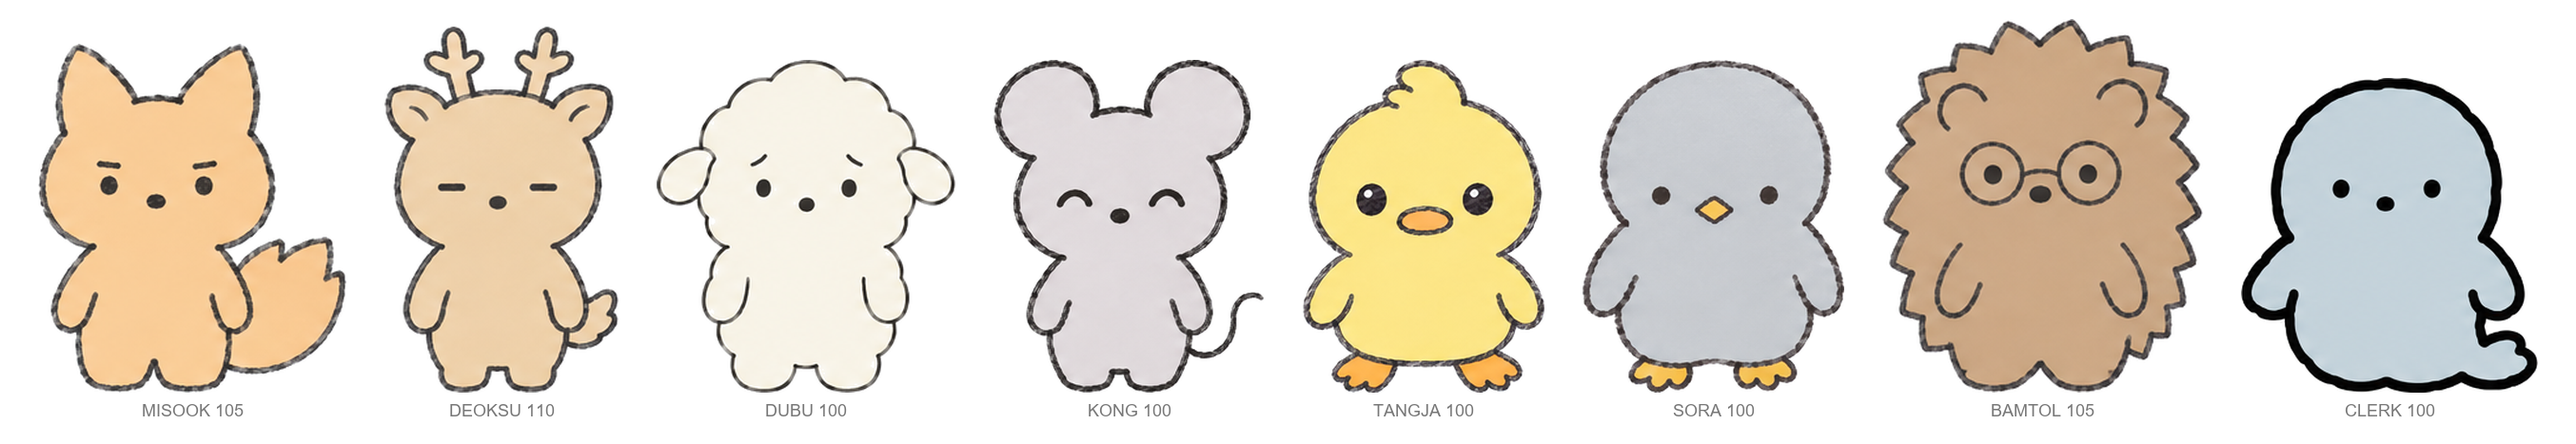
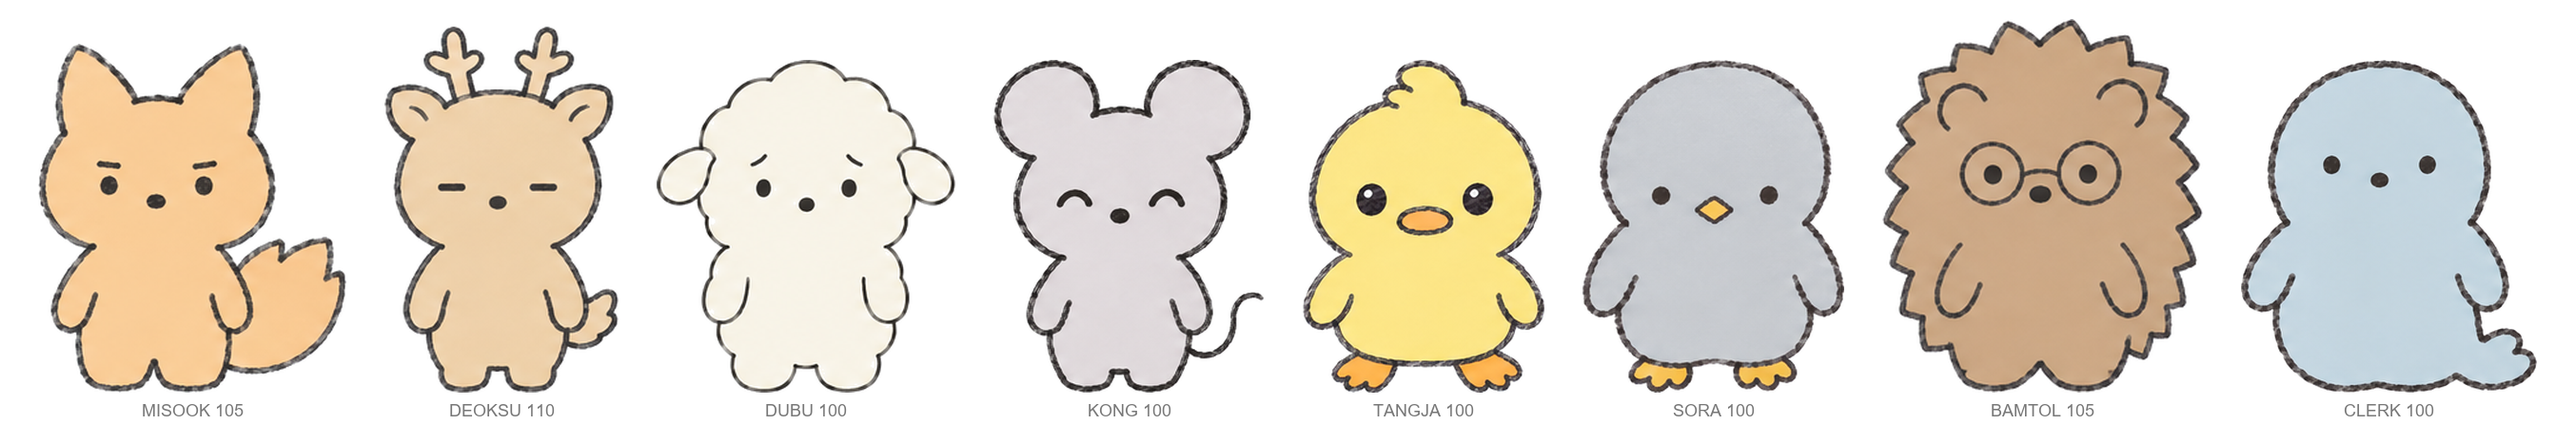
엑스트라 시트(고양이 3인조·점원) 연필 가는 선으로 재제작, 파일명 통일

diff --git a/assets/samples/cast-sheets.html b/assets/samples/cast-sheets.html
@@ -20,7 +20,7 @@
 <body>
 <main>
   <h1>확정 캐스트 시트 7장 + 크기 라인업</h1>
-  <p class="sub">gpt-image-2.5-sunburst · high · 1536×1024 · 7인 공통 <b>연필 가는 선</b>(진한 웜그레이, 약한 입자): 성격별 기본 얼굴 + 턴어라운드 4 + 코믹 포즈 8. 제작은 정면·측면 선 샘플(<code>&lt;이름&gt;-line-sample.png</code>) 먼저 → 그 샘플 + 두부 연필선 샘플(스타일 참조)로 시트. 엑스트라 2장은 구판. 모든 시트는 소품 없음(망토 등은 에피소드별 지정).</p>
+  <p class="sub">gpt-image-2.5-sunburst · high · 1536×1024 · 7인 + 엑스트라 2장 공통 <b>연필 가는 선</b>(진한 웜그레이, 약한 입자): 성격별 기본 얼굴 + 턴어라운드 4 + 코믹 포즈 8. 제작은 정면·측면 선 샘플(<code>&lt;이름&gt;-line-sample.png</code>) 먼저 → 그 샘플 + 두부 연필선 샘플(스타일 참조)로 시트. 모든 시트는 소품 없음(망토 등은 에피소드별 지정).</p>
 
   <h2>크기 라인업 (시트 FRONT 도를 잘라 합성, 생성 아님)</h2>
   <img src="../cast/lineup-all.png" alt="7인 크기 라인업">
@@ -51,10 +51,10 @@
   <img src="bamtol-sheet.png" alt="밤톨 시트">
   <p class="cap">기본 얼굴 = 점 눈 + 브릿지만 있는 동그란 안경. 2행: 팔짱 · 설명 손가락 · 안경 올리기 · 성큼성큼 · 3행: 공벌레 · 놀람(안경 삐뚤) · 생각 · 등 뒤 하트 · 프롬프트 <a href="bamtol-sheet-prompt.txt">bamtol-sheet-prompt.txt</a></p>
   <h2>엑스트라 — 고양이 3인조 (주류 무리)</h2>
-  <img src="cats-sheet-high.png" alt="고양이 3인조 시트">
+  <img src="cats-sheet.png" alt="고양이 3인조 시트">
   <p class="cap">핑크 · 라벤더 · 민트, 같은 디자인에 색만 다름 · 각 행: 턴어라운드 4 + 아니꼬운 곁눈질 · 프롬프트 <a href="cats-sheet-prompt.txt">cats-sheet-prompt.txt</a></p>
   <h2>엑스트라 — 알바 점원 · 물범</h2>
-  <img src="clerk-sheet-high.png" alt="점원 시트">
+  <img src="clerk-sheet.png" alt="점원 시트">
   <p class="cap">2행: 기본 · 지루함 · 놀람 · 기쁨 · 피곤 · 가리킴 · 유니폼은 컷 프롬프트에서 지정 · 프롬프트 <a href="clerk-sheet-prompt.txt">clerk-sheet-prompt.txt</a></p>
 </main>
 </body>

diff --git a/assets/samples/make_extra_prompts.py b/assets/samples/make_extra_prompts.py
@@ -1,0 +1,67 @@
+"""엑스트라(고양이 3인조·점원) 선 샘플·시트 프롬프트 생성.  python assets/samples/make_extra_prompts.py"""
+import os, re
+HERE = os.path.dirname(__file__)
+LINE = re.search(r'LINE = """(.*?)"""', open(os.path.join(HERE, "make_cast_prompts.py"), encoding="utf-8").read(), re.S).group(1)
+
+CATS_DESIGN = """Draw THREE CATS, a trio of popular classmates. All three share the same design except body color:
+- 2-head-tall potato body, head bigger than body, stubby limbs, one thin short tail, small pointed triangular cat ears
+- ONE solid body color everywhere including the face and the INSIDE of the ears (the ears are the same flat color as the body - no lighter or darker inner-ear shape). No markings, no stripes, no patches
+- face: two small black dot eyes set wide apart, one small dark dot nose, NO MOUTH, NO BLUSH
+- blank, slightly dazed expression by default; arms hanging limply; small, scrappy, harmless mood
+- no eyelashes, no ribbon, no clothes, no accessories, no props
+Cat A: pink #F2C9CF. Cat B: lavender #D6CBE6. Cat C: mint #C5DCCB."""
+
+CLERK_DESIGN = """The character is a SEAL, a part-time fast-food clerk, drawn without uniform here:
+- blue gray #BCD0DA body, ONE solid color everywhere including face and belly. No markings, no spots
+- 2-head-tall soft blob body, no neck, no ears, two short flipper arms, a small flat tail flipper at the bottom instead of legs
+- face: two small black dot eyes set wide apart, one small dark dot nose, NO MOUTH, NO BLUSH
+- completely blank, empty stare by default - thinking about nothing; arms hanging limply; small, harmless mood
+- no eyelashes, no whiskers, no clothes, no accessories, no props"""
+
+HEAD_SAMPLE = """Reference images:
+- The FIRST image is the CHARACTER design reference (a sheet from this project). Reproduce the {what} from it exactly.
+- The SECOND image is a LINE STYLE reference only (a cream sheep): copy its thin grainy pencil line texture exactly - but NOT its character, shape or color.
+
+{line}
+
+{design}
+
+{layout} Plain white background, no text, no captions, no frames. NO mouth mark anywhere.
+"""
+
+HEAD_SHEET = """Reference images:
+- The FIRST image is the CHARACTER design reference: {what} drawn with the correct thin pencil line. Reproduce this exact design and line quality in every figure.
+- The SECOND image is a LINE STYLE reference only (a cream sheep): copy its thin grainy pencil line texture exactly in every figure - but NOT its character, shape or color. Emotion symbols (sweat drop, sparkles, motion lines) are drawn simply in the same pencil line.
+
+{line}
+
+{design}
+
+{sheet}
+"""
+
+CATS_SHEET = """Draw a CHARACTER REFERENCE SHEET, landscape, plain white background. Three rows (one per cat, A on top, then B, then C), five figures per row, evenly spaced, every figure the same size and proportions, a thin gray English caption under each figure. No other text, no swatches, no props, no frames. NO rain cloud, no cloud of any kind.
+Each row, full body: FRONT, 3/4 VIEW, SIDE, BACK, SIDE-EYE (front view, eyes as two small dashes tilted to look sideways in a cold judging glance, head slightly turned away, arms limp)."""
+
+CLERK_SHEET = """Draw a CHARACTER REFERENCE SHEET, landscape, plain white background. Two rows, evenly spaced, every figure the same size and proportions, a thin gray English caption under each figure. No other text, no swatches, no props, no frames. NO rain cloud, no cloud of any kind.
+Row 1, turnaround (full body, upright, blank face): FRONT, 3/4 VIEW, SIDE, BACK.
+Row 2, expressions (full body, front view). Since the seal has no mouth, show emotion only with the eyes, posture and symbols:
+NEUTRAL (dot eyes, flippers limp);
+BORED (eyes as small half-closed dashes, body slouching);
+SURPRISED (eyes as slightly bigger round dots, body leaning back, sweat drop);
+HAPPY (eyes as closed upward arcs, one tiny sparkle);
+TIRED (dot eyes, body leaning to one side, one sweat drop);
+POINTING (one flipper raised sideways as if pointing at something, dot eyes)."""
+
+files = {
+    "cats-line-sample-prompt.txt": HEAD_SAMPLE.format(what="three cats (silhouette, ears, tail)", line=LINE, design=CATS_DESIGN,
+        layout="Draw exactly FOUR large figures in one row: Cat A FRONT view, Cat B FRONT view, Cat C FRONT view, then Cat A SIDE view (profile facing left, one dot eye visible). Plain standing, arms hanging limply."),
+    "clerk-line-sample-prompt.txt": HEAD_SAMPLE.format(what="SEAL (blob body, no ears, flipper limbs)", line=LINE, design=CLERK_DESIGN,
+        layout="Draw exactly TWO large figures side by side: LEFT full body FRONT view, RIGHT full body SIDE view (profile facing left, one dot eye visible). Upright, flippers hanging limply, blank face."),
+    "cats-sheet-prompt.txt": HEAD_SHEET.format(what="three cats", line=LINE, design=CATS_DESIGN, sheet=CATS_SHEET),
+    "clerk-sheet-prompt.txt": HEAD_SHEET.format(what="a seal", line=LINE, design=CLERK_DESIGN, sheet=CLERK_SHEET),
+}
+for name, text in files.items():
+    with open(os.path.join(HERE, name), "w", encoding="utf-8") as f:
+        f.write(text)
+print("ok")

diff --git a/scripts/lineup.py b/scripts/lineup.py
@@ -17,7 +17,7 @@ CAST = {  # 이름: (시트, 상대 크기, 캡션)
     "tangja": ("assets/samples/tangja-sheet.png", 1.0, "TANGJA 100"),
     "sora":   ("assets/samples/sora-sheet.png",   1.0, "SORA 100"),
     "bamtol": ("assets/samples/bamtol-sheet.png", 1.05, "BAMTOL 105"),
-    "clerk":  ("assets/samples/clerk-sheet-high.png",  1.0, "CLERK 100"),
+    "clerk":  ("assets/samples/clerk-sheet.png",  1.0, "CLERK 100"),
 }
 ORDER = ["misook", "deoksu", "dubu", "kong", "tangja", "sora", "bamtol", "clerk"]
 BASE_H = 210  # 크기 1.0 캐릭터의 얼굴 기준선→발끝 픽셀 거리 (귀·뿔·털 제외, 역할 기준 크기)

diff --git a/assets/characters.md b/assets/characters.md
@@ -35,8 +35,8 @@ MBTI는 설계용이며 **작품 안(표지·컷·캡션·해시태그 어디에
 
 | 역할 | 동물 | 크기 | 바디 컬러 | 시트 |
 |---|---|---|---|---|
-| 주류 무리 고양이 3인조 | 고양이 (동일 디자인, 색만 다름) | 100 | 핑크 `#F2C9CF` · 라벤더 `#D6CBE6` · 민트 `#C5DCCB` | `cats-sheet-high.png` |
-| 알바 점원 | 물범 (귀 없음, 지느러미 팔) | 100 | 블루그레이 `#BCD0DA` | `clerk-sheet-high.png` |
+| 주류 무리 고양이 3인조 | 고양이 (동일 디자인, 색만 다름) | 100 | 핑크 `#F2C9CF` · 라벤더 `#D6CBE6` · 민트 `#C5DCCB` | `cats-sheet.png` |
+| 알바 점원 | 물범 (귀 없음, 지느러미 팔) | 100 | 블루그레이 `#BCD0DA` | `clerk-sheet.png` |
 
 군중·행인은 시트 없음. 프롬프트 고정 문구(스킬 2절)로 회색 사람 실루엣, 얼굴 없음.
 
